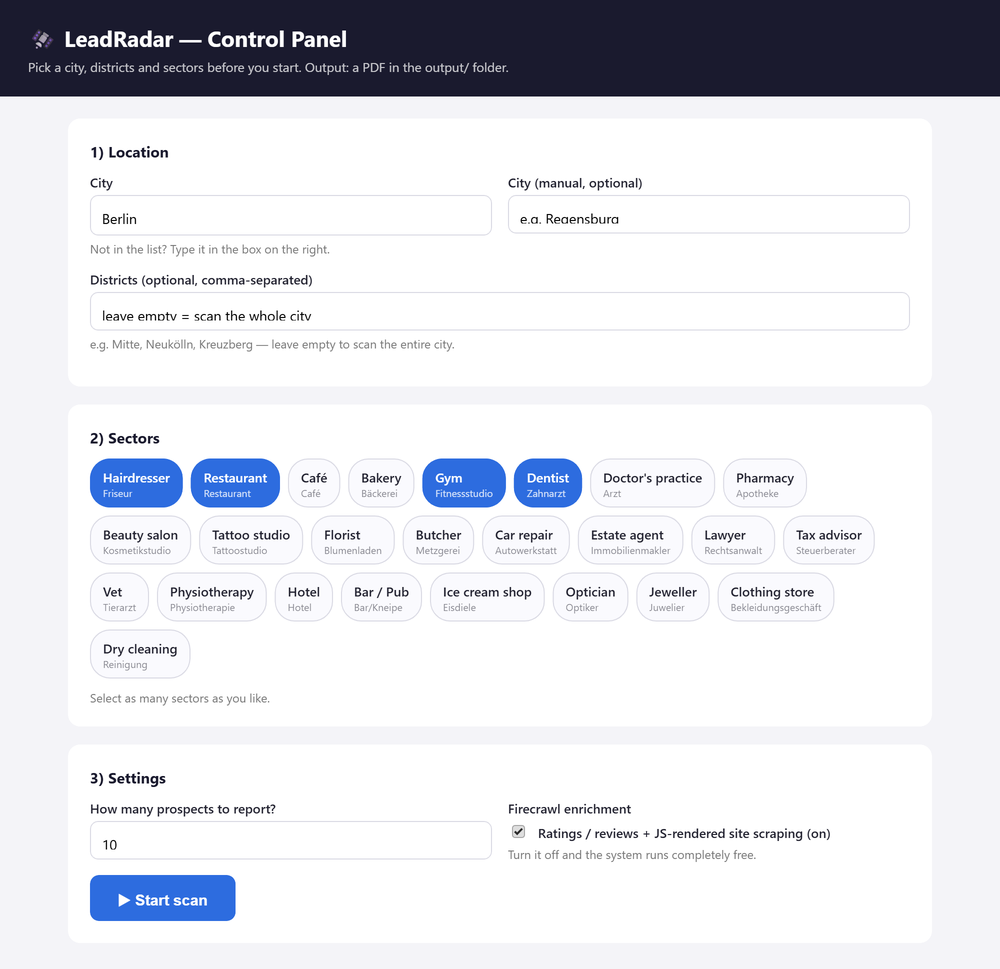
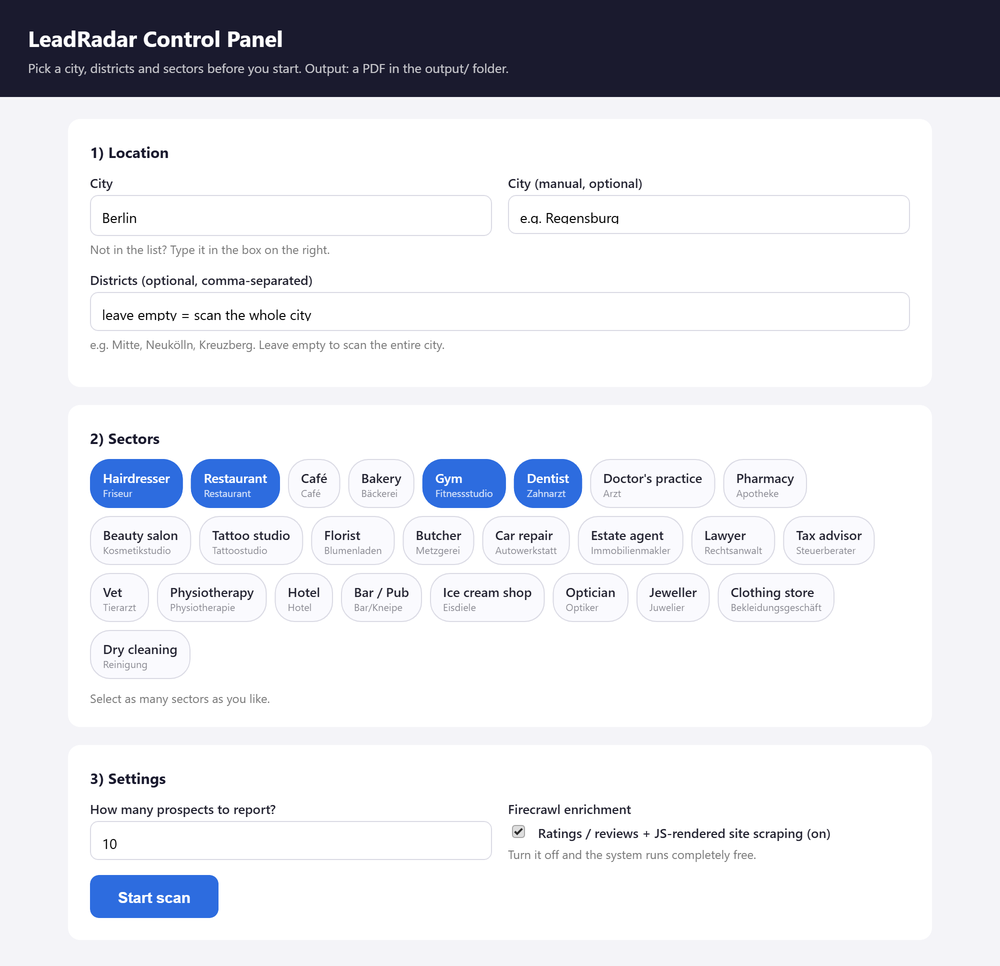
Remove em dashes from presentation graphics
Em dashes read as visual noise and as an AI tell. Every affected line in
the cover, problem and report graphics was rewritten with natural
punctuation instead of swapping one dash for another. The English panel
capture was retaken with the same wording.

diff --git a/docs/report-source.html b/docs/report-source.html
@@ -33,9 +33,9 @@ td.k{font-weight:700;color:#1a1a2e;width:41%;background:#fafbfd}
 .foot b{color:#1a1a2e}
 </style></head><body><div class="wrap">
 <div class="top">
-  <div class="eyebrow">THE OUTPUT &mdash; ONE PAGE PER PROSPECT</div>
+  <div class="eyebrow">THE OUTPUT &middot; ONE PAGE PER PROSPECT</div>
   <h1>Every lead arrives ready to act on.
-    <small>Real findings from an actual scan &mdash; business identity removed for publication.</small></h1>
+    <small>Real findings from an actual scan. Business identity removed for publication.</small></h1>
 </div>
 <div class="body">
   <div class="page">
@@ -45,7 +45,7 @@ td.k{font-weight:700;color:#1a1a2e;width:41%;background:#fafbfd}
       <span class="badge">OPPORTUNITY SCORE: HIGH</span>
       <div class="sect">1) PARAMETERS</div>
       <table>
-        <tr><td class="k">Website status</td><td>Exists &mdash; insecure (http)</td></tr>
+        <tr><td class="k">Website status</td><td>Exists, insecure (http)</td></tr>
         <tr><td class="k">Operating status</td><td>Likely active (site reachable)</td></tr>
         <tr><td class="k">Freshness signal</td><td>Copyright year in footer: 2014</td></tr>
       </table>
@@ -55,10 +55,10 @@ td.k{font-weight:700;color:#1a1a2e;width:41%;background:#fafbfd}
         <tr><td class="k">Contact page</td><td>index.php?nav=contact</td></tr>
         <tr><td class="k">Evidence / source</td><td>openstreetmap.org/&hellip;</td></tr>
       </table>
-      <div class="sect">3) WEBSITE ISSUES &mdash; VERIFIED</div>
-      <div class="iss">No HTTPS &mdash; the site is served over unencrypted http</div>
-      <div class="iss">Not mobile-friendly &mdash; viewport meta tag missing</div>
-      <div class="heu">[HEURISTIC] Footer copyright year is 2014 &mdash; likely unmaintained</div>
+      <div class="sect">3) WEBSITE ISSUES, VERIFIED</div>
+      <div class="iss">No HTTPS: the site is served over unencrypted http</div>
+      <div class="iss">Not mobile-friendly: viewport meta tag missing</div>
+      <div class="heu">[HEURISTIC] Footer copyright year is 2014, likely unmaintained</div>
       <div class="sect">TECHNICAL AUDIT</div>
       <table>
         <tr><td class="k">HTTP status</td><td>200</td><td class="k">HTTPS</td><td>NO</td></tr>
@@ -70,9 +70,9 @@ td.k{font-weight:700;color:#1a1a2e;width:41%;background:#fafbfd}
     <div class="note"><div class="n">SECTION 1</div><h4>Parameters</h4>
       <p>Category, district, score, whether a site exists at all, how fresh the business looks.</p></div>
     <div class="note"><div class="n">SECTION 2</div><h4>Contact &amp; outreach plan</h4>
-      <p>Phone, e-mail found on the site, contact page, source link &mdash; plus a suggested opening line built from the findings.</p></div>
+      <p>Phone, e-mail found on the site, contact page and source link, plus a suggested opening line built from the findings.</p></div>
     <div class="note"><div class="n">SECTION 3</div><h4>Website issues</h4>
-      <p>Verified problems in red. Subjective impressions are kept separate and marked <b>[HEURISTIC]</b> &mdash; they can never drive a HIGH score on their own.</p></div>
+      <p>Verified problems in red. Subjective impressions are kept separate and marked <b>[HEURISTIC]</b>. They can never drive a HIGH score on their own.</p></div>
   </div>
 </div>
 <div class="foot">

diff --git a/docs/problem-source.html b/docs/problem-source.html
@@ -39,26 +39,26 @@ h1{font-size:33px;font-weight:800;letter-spacing:-.6px;line-height:1.18}
       <li>Open Maps, scroll listings one by one, click into each business</li>
       <li>Visit every website by hand to see whether it even works</li>
       <li>No way to separate <b>no website at all</b> from <b>a site that quietly loses customers</b></li>
-      <li>No memory — you call the same business you already contacted last month</li>
+      <li>No memory: you call the same business you already contacted last month</li>
       <li>Hours of work for a handful of usable prospects</li>
     </div>
     <div class="col good"><h3>&#10003;&nbsp; What LeadRadar does instead</h3>
-      <li>One scan across a whole city — or specific districts — in minutes</li>
+      <li>One scan across a whole city, or specific districts, in minutes</li>
       <li>Every website tested: HTTPS, mobile viewport, contact path, booking links, page errors</li>
       <li>Each prospect scored <b>only on verifiable evidence</b>, never on opinion</li>
-      <li>Remembers everyone already reported — a prospect never repeats</li>
+      <li>Remembers everyone already reported, so a prospect never repeats</li>
       <li>Output is a PDF with contact details and an outreach angle per business</li>
     </div>
   </div>
   <div class="data">
-    <div class="dl">MEASURED IN ACTUAL SCANS &mdash; HAIR SALONS, 200-RESULT SAMPLE PER CITY</div>
+    <div class="dl">MEASURED IN ACTUAL SCANS &middot; HAIR SALONS, 200-RESULT SAMPLE PER CITY</div>
     <div class="drow">
       <div class="dcard"><div class="city">Munich &middot; 196 businesses found</div>
-        <div class="big">142<small>had no website at all &mdash; 72%</small></div></div>
+        <div class="big">142<small>had no website at all (72%)</small></div></div>
       <div class="dcard"><div class="city">Cologne &middot; 195 businesses found</div>
-        <div class="big">153<small>had no website at all &mdash; 78%</small></div></div>
+        <div class="big">153<small>had no website at all (78%)</small></div></div>
     </div>
-    <div class="dnote">On top of that sit the businesses that <i>do</i> have a site which fails in practice &mdash;
+    <div class="dnote">On top of that sit the businesses that <i>do</i> have a site which fails in practice:
       served over plain http, unreadable on a phone, or with a contact page that returns an error.
       Those are invisible to manual prospecting, and they are exactly what the audit step surfaces.</div>
   </div>

diff --git a/docs/cover-source.html b/docs/cover-source.html
@@ -40,7 +40,7 @@ h1 span{color:#5b91f5}
 <div class="top">
   <div class="eyebrow">OPEN SOURCE &middot; PYTHON &middot; MIT</div>
   <h1>Lead<span>Radar</span></h1>
-  <div class="tag">Finds local businesses with <b>missing or broken websites</b> —<br>
+  <div class="tag">Finds local businesses with <b>missing or broken websites</b>,<br>
   and turns them into a sales-ready PDF report.</div>
 </div>
 <div class="body">
@@ -50,7 +50,7 @@ h1 span{color:#5b91f5}
     <div class="step"><div class="n">2</div><h3>Audit</h3>
       <p>HTTPS, mobile viewport, contact &amp; booking paths, page errors.</p></div>
     <div class="step"><div class="n">3</div><h3>Score</h3>
-      <p>Opportunity rated from verifiable evidence only — never from opinion.</p></div>
+      <p>Opportunity rated from verifiable evidence only, never from opinion.</p></div>
     <div class="step"><div class="n">4</div><h3>Report</h3>
       <p>PDF per prospect: contact plan, outreach angle, technical findings.</p></div>
   </div>
@@ -59,10 +59,10 @@ h1 span{color:#5b91f5}
       <div class="lbl">EVIDENCE-BASED SCORING</div>
       <div class="row"><span class="pill hi">HIGH</span> No website, or 2+ verified blockers</div>
       <div class="row"><span class="pill me">MEDIUM</span> One blocker, or repeated weak signals</div>
-      <div class="row"><span class="pill lo">LOW</span> Site healthy — deprioritise</div>
+      <div class="row"><span class="pill lo">LOW</span> Site healthy, deprioritise</div>
     </div>
     <div class="facts">
-      <div class="fact"><b>0 &euro;</b><span>Runs free — optional paid enrichment only</span></div>
+      <div class="fact"><b>0 &euro;</b><span>Runs free. Optional paid enrichment only</span></div>
       <div class="fact"><b>100%</b><span>Reproducible rule engine, no hallucination</span></div>
     </div>
   </div>

diff --git a/docs/linkedin-prompt.md b/docs/linkedin-prompt.md
@@ -1,0 +1,191 @@
+# Claude Chat'e yapıştırılacak PROMPT
+
+> Aşağıdaki çerçevenin tamamını (bu satırın altındaki her şeyi) kopyalayıp Claude Chat'e yapıştır.
+> Sistem rehberi PDF'ini ayrıca eklemene gerek yok — gereken tüm bilgi promptun içinde.
+
+---
+
+Merhaba. Senden bir LinkedIn gönderisi yazmanı istiyorum. Önce iki şeyi yap:
+
+1. `humanizer` skill'ini çağır ve gönderiyi o kurallara göre yaz.
+2. Aşağıdaki brief'i sonuna kadar oku, sonra yazmaya başla.
+
+---
+
+## KİMİM, NE İSTİYORUM
+
+Ben Furkan Akduman. Ticari ve gündelik hayat problemlerine **yapay zekâ destekli dijital çözümler** geliştiriyorum. Bu gönderinin amacı bir proje duyurusu değil; **"bu adam gerçek bir problemi görüp uçtan uca çözüyor" izlenimini bırakmak.** Gönderiyi okuyan kişi şunu düşünmeli: *"Bu kişi bizim de bir problemimizi çözebilir."*
+
+Gönderide açıkça ama **övünmeden** geçmesi gereken üç mesaj:
+- Ticari bir probleme somut bir çözüm ürettim.
+- Bunu **yapay zekâ ile birlikte** geliştirdim (AI ile çalışmayı biliyorum, bunu saklamıyorum — tersine, bu bir yetkinlik).
+- Bu bir **AI otomasyon projesi**: karar verme kısmında yapay zekâ, doğrulama kısmında deterministik kod var.
+
+**Yaz:** Türkçe. Sonunda ayrıca kısa bir İngilizce sürüm ver (uluslararası bağlantılarım için).
+
+**GitHub linki:** https://github.com/FlyerFukas/leadradar
+
+---
+
+## ÇÖZDÜĞÜM TİCARİ PROBLEM
+
+Serbest web tasarımcıları, dijital ajanslar ve yerel B2B satış ekipleri için müşteri adayı bulmak hâlâ elle yapılan bir iş. Somut acılar:
+
+1. **Elle arama çok yavaş.** Haritalarda tek tek geziniyorsun, her işletmenin sitesini açıp çalışıp çalışmadığına bakıyorsun. Birkaç kullanılabilir aday için saatler gidiyor.
+2. **"Sitesi yok" ile "sitesi var ama müşteri kaybettiriyor" ayırt edilemiyor.** İkincisi gözle görünmüyor; siteyi açıp teknik olarak test etmen gerekiyor.
+3. **Öznel yargı satılamıyor.** "Siteniz eski görünüyor" demek bir satış argümanı değil. "Siteniz http üzerinden yayında, telefonda okunmuyor ve iletişim sayfanız hata veriyor" demek satış argümanı.
+4. **Hafıza yok.** Geçen ay aradığın işletmeyi bu ay tekrar arıyorsun. Hem zaman kaybı hem itibar kaybı.
+5. **Çıktı eyleme dönüşmüyor.** Elinde isim listesi kalıyor; kimi, hangi kanaldan, hangi cümleyle arayacağın belli değil.
+
+**Gerçek ölçüm (kendi taramalarımdan, uydurma istatistik değil):**
+- Münih, kuaförler: 196 işletme bulundu, **142'sinin hiç web sitesi yok (%72)**
+- Köln, kuaförler: 195 işletme bulundu, **153'ünün hiç web sitesi yok (%78)**
+- (Her şehir için 200 sonuçluk örneklem üzerinden.)
+
+Bunun üstüne bir de *sitesi olan ama pratikte çalışmayan* işletmeler geliyor — http üzerinden yayınlananlar, telefonda açılmayanlar, iletişim formu hata verenler. Bunlar elle prospecting'de tamamen görünmez.
+
+---
+
+## ÇÖZÜM: LeadRadar
+
+Bir şehir ve sektör seçiyorsun; sistem o bölgedeki **web sitesi olmayan ya da sitesi bozuk** işletmeleri buluyor, kanıta dayalı puanlıyor ve satış görüşmesine hazır bir **PDF rapor** üretiyor.
+
+### Nasıl çalışıyor (boru hattı)
+
+```
+Şehir/sektör seçimi (panel)
+   ↓
+Keşif — OpenStreetMap Overpass API (GPS koordinatlı işletme kayıtları)
+   ↓
+Parmak izi + tekilleştirme (SQLite hafıza)
+   ↓
+Seçim — önce sitesi hiç olmayanlar
+   ↓
+Web sitesi denetimi (teknik testler)
+   ↓
+Puanlama — YÜKSEK / ORTA / DÜŞÜK, yalnızca kanıtla
+   ↓
+Kayıt + PDF rapor
+```
+
+### Teknik ayrıntılar (gönderide hepsini kullanma, en çarpıcı 4-5 tanesini seç)
+
+**Keşif katmanı**
+- Veri kaynağı **OpenStreetMap Overpass API** — işletmeler GPS koordinatlı coğrafi kayıtlardan çekiliyor, API anahtarı gerekmiyor, ücretsiz.
+- **27 Alman şehri**, **25 sektör** (kuaför, restoran, diş hekimi, eczane, emlakçı, oto tamir, avukat, veteriner, otel…).
+- Şehir sınırı sorgusu OSM `admin_level` hiyerarşisini doğru kullanıyor: Berlin/Hamburg/Bremen gibi şehir-eyaletleri ile normal "kreisfreie Stadt"lar farklı seviyelerde tanımlı — sistem her şehir için doğru seviyeyi biliyor.
+- Semt seçilirse o semt, seçilmezse **tüm şehir** tek sorguda taranıyor.
+- **Zincir/franchise otomatik eleniyor**: OSM `brand` etiketi olan kayıtlar + isim kara listesi.
+- Overpass sunucusu meşgulse (429/504) otomatik bekleyip **yedek uca geçiyor** — bir semt düşse bile tarama devam ediyor.
+
+**Tekilleştirme (bence en değerli ve en az konuşulan kısım)**
+- Her işletme için normalize edilmiş bir **parmak izi** üretiliyor: `isim|adres` → yoksa `isim|telefon` → yoksa `isim|alan-adı`. Büyük/küçük harf, noktalama, boşluk farkları temizleniyor.
+- Bu parmak izleri SQLite'ta tutuluyor; sonraki taramada **daha önce raporlanan işletme bir daha gelmiyor.**
+- Ayrıca haftalık rotasyon var: hafta numarasına göre her hafta farklı kategori + semt kombinasyonu taranıyor, aynı bölgede dönüp durmuyorsun.
+
+**Web sitesi denetimi — asıl teknik iş burada**
+Sitesi olan her adayın sitesi gerçekten açılıp test ediliyor. Tespit edilen **nesnel engeller**:
+- **HTTPS yok** — site şifrelenmemiş http üzerinden yayında (ya da SSL sertifikası geçersiz)
+- **Mobil uyumsuz** — `viewport` meta etiketi yok, yani telefonda okunmuyor
+- **İletişim yolu kopuk** — sayfada telefon (`tel:`), e-posta (`mailto:`) veya iletişim linki bulunamıyor; ya da iletişim sayfası **404 veriyor**
+- **Randevu/rezervasyon yolu bozuk** — sitedeki randevu linki ölü (Doctolib, OpenTable, Treatwell, Jameda gibi dış platformlar tanınıyor ve ayrı tutuluyor)
+- **Sayfa hataları** — site hiç açılmıyor, boş sayfa, sunucu hatası, sonsuz yönlendirme döngüsü
+- Ayrıca **teknoloji parmak izi** çıkarılıyor: WordPress / Wix / Jimdo / TYPO3 / Joomla tespiti, jQuery sürümü — ve **güncellik sinyali**: alt bilgideki telif yılı, sunucunun `Last-Modified` başlığı, OSM kayıt tarihi.
+
+**Puanlama — projenin ahlaki omurgası**
+- **YÜKSEK**: sitesi hiç yok **veya** en az **iki doğrulanmış nesnel engel** var
+- **ORTA**: tek engel, ya da birden çok sezgisel bulgu
+- **DÜŞÜK**: site sağlıklı — öncelikten düşür
+- **Kritik kural:** "site eski görünüyor", "tasarım zayıf" gibi **öznel izlenimler ayrı bir alanda `[HEURISTIC]` etiketiyle tutuluyor ve tek başlarına ASLA YÜKSEK puan üretemiyor.** Yani rapordaki her yüksek puanın arkasında test edilmiş, gösterilebilir bir kanıt var.
+- Sistem **deterministik**: aynı girdi her zaman aynı çıktıyı veriyor. Halüsinasyon yok, "bu sefer başka dedi" yok.
+
+**Çıktı**
+- Her aday için PDF'te ayrı bir sayfa, üç bölüm hâlinde:
+  1. **Parametreler** — kategori, semt, skor, faaliyet durumu, güncellik, teknoloji sinyalleri
+  2. **Bilgiler ve iletişim** — adres, telefon, sitede bulunan e-posta, sosyal medya, kanıt linki + **öncelik sıralı iletişim planı** ("1. Telefon: … 2. E-posta: … 3. Yerinde ziyaret: …") + **görüşme açılış cümlesi önerisi** (bulgulardan üretiliyor)
+  3. **Web sitesi hata ve sorunları** — doğrulanmış sorunlar kırmızı, sezgisel bulgular ayrı, altında teknik denetim tablosu
+- Rapor dosya adı şehir + tarih + saat içeriyor; **hiçbir rapor üzerine yazılmıyor.**
+- Ayrıca ham veri JSON olarak da çıkıyor.
+
+**Kullanım**
+- Tarayıcıda çalışan **yerel kontrol paneli**: şehir, semt, sektör seçiyorsun, taramayı başlatıyorsun, ilerleme canlı akıyor, bitince PDF bağlantısı çıkıyor. Panel için hiçbir ek bağımlılık kurulmuyor — Python'un yerleşik web sunucusuyla çalışıyor.
+- Windows Görev Zamanlayıcı ile **her pazartesi 09:00'da otomatik** çalıştırılabiliyor.
+- Çift tıklanabilir `.bat` kısayolları var; komut yazmayı bilmeyen biri de kullanabiliyor.
+
+**İsteğe bağlı zenginleştirme (Firecrawl)**
+- Rehberlerden (yelp.de, gelbeseiten.de, jameda.de) **puan ve yorum sayısı** çekiliyor.
+- JavaScript ile yüklenen siteler düzgün taranıyor.
+- **Kredi verimliliği:** Firecrawl sadece yerel tarama ince/başarısız içerik döndürdüğünde devreye giriyor — her sitede değil. Aday başına ~2 kredi.
+- Anahtar depoda **yok**, çalışma anında ortamdan okunuyor — projeyi indiren herkes kendi hesabını kullanıyor.
+
+**Mühendislik / profesyonellik tarafı**
+- **MIT lisansı** — açık kaynak, kullanımı serbest.
+- **SECURITY.md** — hiçbir API anahtarının depoda tutulmadığı, taranan işletme verisinin yerel kaldığı ve sorumlu kullanım sınırları yazılı.
+- **Gizlilik bilinci:** taranan gerçek işletme verileri (`output/`, `data/`) `.gitignore` ile depodan dışlanıyor — üçüncü kişilerin iletişim bilgilerini yayınlamak GDPR/KVKK açısından sorun olurdu.
+- **Nazik tarama:** istekler arasında bekleme, site başına tek istek, yalnızca herkese açık veri. Sistem **hiç kimseye otomatik mesaj göndermiyor** — iletişim kararı her zaman insanda.
+- İki dilli dokümantasyon (İngilizce + Türkçe README), sistemin çalışma mantığını anlatan ayrı bir **rehber PDF**.
+
+---
+
+## HİKÂYENİN ÇEKİRDEĞİ (gönderinin ruhu bu olmalı)
+
+Bu proje sıfırdan bir fikir değil. Başlangıç noktası, n8n üzerinde kurulmuş bir otomasyon akışıydı: iki GPT ajanı, Firecrawl, Supabase, Gmail ve n8n'in kendisi — **beş ayrı servise bağımlı, her çalıştırmada para yakan** bir kurulum.
+
+Ona bakarken şunu fark ettim: akışın içindeki yapay zekâ talimatlarının neredeyse tamamı aslında **kodla doğrulanabilir nesnel kontrollerdi** — "HTTPS var mı", "viewport etiketi var mı", "iletişim linki çalışıyor mu". Yapay zekâya bunları *sorup* cevabına güvenmek yerine, kodun bunları *ölçmesi* gerekiyordu.
+
+Ben de sistemi baştan yazdım: **yapay zekâ mimariyi kurarken ve kodu yazarken yanımdaydı; ama nihai kararı kod veriyor.** Sonuç: aynı iş mantığı, ama tekrarlanabilir, halüsinasyonsuz, platform bağımsız ve tekrar eden maliyeti sıfır.
+
+> Kısaca: **yapay zekâyı düşünmesi gereken yerde kullandım, doğrulaması gereken yerde koda bıraktım.** Gönderinin ana fikri bu olsun.
+
+---
+
+## GÖNDERİYLE BİRLİKTE PAYLAŞACAĞIM 4 GÖRSEL
+
+Sıra önemli. Gönderi metnini bu akışa uygun kur:
+1. **Kapak** — LeadRadar ne yapar, boru hattı ve skorlama özeti
+2. **Problem** — ticari problem + gerçek tarama rakamları (Münih %72, Köln %78)
+3. **Kontrol paneli** — şehir/semt/sektör seçimi ekranı
+4. **Rapor çıktısı** — bir adayın rapor sayfası, tespit edilen gerçek sorunlarla (işletme kimliği gizlenmiş)
+
+---
+
+## YAZIM KURALLARI — BUNLARA UY
+
+**Ton**
+- Birinci tekil şahıs, sakin, kendinden emin ama **iddiacı değil**. Abartı sıfat yok.
+- Satış kokmayacak. Kimseye bir şey pazarlamıyorum; yaptığım işi anlatıyorum.
+- "Devrim", "oyun değiştirici", "inanılmaz", "tutkuyla", "heyecanla paylaşıyorum" gibi kalıpları **kullanma**.
+- Emoji: en fazla 2-3 tane, sadece bölüm ayırıcı olarak. Emoji yağmuru yok.
+- Hashtag: en fazla 5 tane, sonda, anlamlı olanlar.
+
+**Yapı**
+- **İlk iki satır kritik** (LinkedIn gerisini gizliyor). Bir problem cümlesi ya da çarpıcı bir gerçek rakamla aç — proje adıyla değil.
+- Toplam uzunluk: **1300-1900 karakter** arası. Uzun tutma.
+- Kısa paragraflar, bolca satır boşluğu. Telefonda okunabilir olsun.
+- Ortada bir yerde "nasıl çalıştığı"nı 3-4 maddeyle ver, hepsini değil.
+- Sonda GitHub linki + yumuşak bir kapanış (soru sormak iyi, yalvarmak kötü).
+
+**Yapay zekâ ile geliştirdiğimi nasıl söyle**
+- Savunmacı olma, özür diler gibi olma. "Yapay zekâ ile geliştirdim" bir itiraf değil, bir yetkinlik beyanı.
+- Ama şunu da net et: yapay zekâ **her şeyi yapmadı** — mimari kararları, hangi kontrolün nesnel hangisinin öznel olduğu ayrımını, puanlama guardrail'lerini ben kurdum.
+
+**AI-tell'lerden kaçın (bunlar gönderiyi yapay yapar)**
+- "— " (em dash) zincirlemesi, "sadece … değil, aynı zamanda …", "X'in gücünü keşfedin"
+- Her paragrafın aynı uzunlukta olması
+- Üçlü liste saplantısı (her şeyi üç maddeye bölmek)
+- "Sonuç olarak", "Özetle" gibi kapanış klişeleri
+- Aşırı simetrik cümle yapıları
+
+**Gerçeklik kuralı**
+- Verdiğim rakamların dışına çıkma, **yeni istatistik uydurma.** Münih %72 ve Köln %78 gerçek ölçümler; başka rakam ekleme.
+- "Şu kadar müşteri buldum", "şu kadar satış yaptım" gibi **olmayan sonuçlar iddia etme.** Bu bir araç; henüz ticari sonuç raporlamıyorum.
+
+---
+
+## ÇIKTI OLARAK BANA ŞUNLARI VER
+
+1. **Gönderi metni** (Türkçe, yayına hazır, kopyalayıp yapıştırabileceğim halde)
+2. **2 alternatif açılış cümlesi** (ilk iki satırı test edebilmek için)
+3. **Kısa İngilizce sürümü** (~800-1000 karakter)
+4. **Hashtag önerisi** (en fazla 5)
+5. **Her görsel için tek cümlelik alt yazı** (LinkedIn carousel'de görsel açıklaması olarak kullanacağım)
